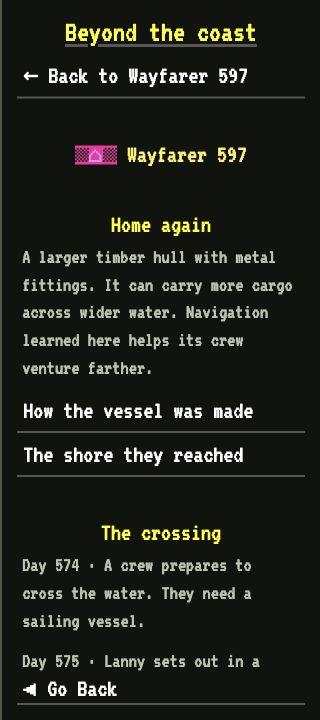
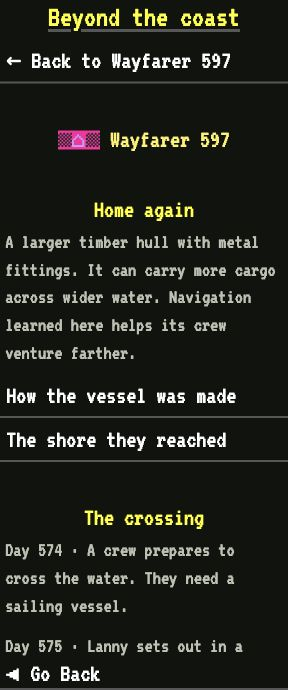
Refresh campaign screenshot tour with current pixel art

Changed region(s): [[0.0, 0.0, 1.0, 1.0], [0.1875, 0.1826, 0.6562, 0.2435], [0.6875, 0.1826, 0.8125, 0.2435]]

diff --git a/README.md b/README.md
@@ -24,13 +24,13 @@ This addresses the installation issue reported in [GenTown-Mods #19](https://git
 
 The day button becomes **Decisions** when a proposal is waiting. Open it to answer the actual question. **Projects** brings unfinished work together, with links through its missing supplies and local discoveries. Routine town updates fold away in the Chronicle, leaving room for choices and changes.
 
-<a href="docs/screenshots/material-dependencies.png"><img src="docs/screenshots/material-dependencies.png" width="640" alt="Wayfarer 597 needs glass for telescopes. The panel follows the missing local forge discovery, sand, charcoal and timber."></a> <a href="docs/screenshots/decisions-mobile.png"><img src="docs/screenshots/decisions-mobile.png" width="195" alt="A live choice about shared learning, with coloured town flags, Yes and No, and a quieter option to let the day pass."></a>
+<a href="docs/screenshots/material-dependencies.jpg"><img src="docs/screenshots/material-dependencies.jpg" width="640" alt="North Montezumad needs glass for telescopes. The panel follows the missing local forge discovery, sand, charcoal and timber."></a> <a href="docs/screenshots/decisions-mobile.png"><img src="docs/screenshots/decisions-mobile.png" width="195" alt="A live choice about shared learning, with coloured town flags, Yes and No, and a quieter option to let the day pass."></a>
 
-*Ujoris e, Day 756. Glass is holding up a telescope. In the same world, Wayfarer 597 asks about learning with Peahaven.*
+*The glass shortage on Day 601, shown with v1.6.96. The phone capture shows a live learning proposal on Day 756, taken with v1.6.94.*
 
 ## A few stories from one world
 
-These are real game screens from a release-test campaign. The people, work, journeys and agreements are recorded in its save. Click any image to see it at full size.
+These are real game screens from a release-test campaign, refreshed with v1.6.96 and my own pixel art. The people, work, journeys and agreements are recorded in its save. Click any image to see it at full size.
 
 ### At the bench
 
@@ -52,9 +52,9 @@ Howin made a tuning fork when the town’s musicians wanted a note they could si
 
 ### Neighbours with terms
 
-New Montezumad needed stone for a stadium. The exchange records the request, shipment, arrival and eventual use. Elsewhere, two towns agreed to a common market with an outside customs levy. Council talks keep the obligations and the towns’ votes.
+North Montezumad needs metal handtools for work already underway. Its request travels by sea to Wayfarer 597. You can follow the vessel and crew, and visit the fields and workshop that need the tools. Elsewhere, two towns agreed to a common market with an outside customs levy. Council talks keep the obligations and the towns’ votes.
 
-<a href="docs/screenshots/trade.jpg"><img src="docs/screenshots/trade.jpg" width="320" alt="211 stone travelling from Montezumad to New Montezumad and being used to build a stadium"></a> <a href="docs/screenshots/council.jpg"><img src="docs/screenshots/council.jpg" width="320" alt="A common market agreed by Wayfarer 597 and Montezumad, with a five percent outside customs levy"></a>
+<a href="docs/screenshots/trade.jpg"><img src="docs/screenshots/trade.jpg" width="320" alt="A request for metal handtools travelling by sea from North Montezumad to Wayfarer 597"></a> <a href="docs/screenshots/council.jpg"><img src="docs/screenshots/council.jpg" width="320" alt="A common market agreed by Wayfarer 597 and Montezumad, with a five percent outside customs levy"></a>
 
 The same world also has creeds, rivalries, celebrations, wars and places marked by earlier inhabitants. Weather and disasters can leave lasting changes to the land. Much later, local advances and constructed vessels can open journeys to other worlds. The comparison below explains those systems and how far they go.
 
@@ -201,7 +201,7 @@ The runner uses actual game turns and decisions. It writes campaign reports, a t
 
 **The fonts have their own authors and terms.** VT323 is by the VT323 Project Authors, including Peter Hull, under the [SIL Open Font License 1.1](vendor/gentown/fonts/VT323-LICENSE.txt). Public Pixel is by GGBotNet, released under [CC0 1.0 Universal](vendor/gentown/fonts/PublicPixel-LICENSE.txt).
 
-**The additional sprites are supplied with this overhaul.** They are separate from R74n's original icons. Their [source records and full prompts](artwork/paultendo-sprites/manifest.json) accompany the exports. The original renderer, build tools and integration code are paultendo's work.
+**The additional sprites are my own pixel art, supplied with this overhaul.** They are separate from R74n's original icons. Their [source records and full prompts](artwork/paultendo-sprites/manifest.json) accompany the exports. The original renderer, build tools and integration code are paultendo's work.
 
 **Adapted files contain work from both sources.** [index.html](index.html) adapts R74n’s original game page for local loading. Its upstream portions retain their original attribution and applicable terms. The original additions by paultendo remain paultendo’s work. Any third-party components retain their own notices and licences.
 
